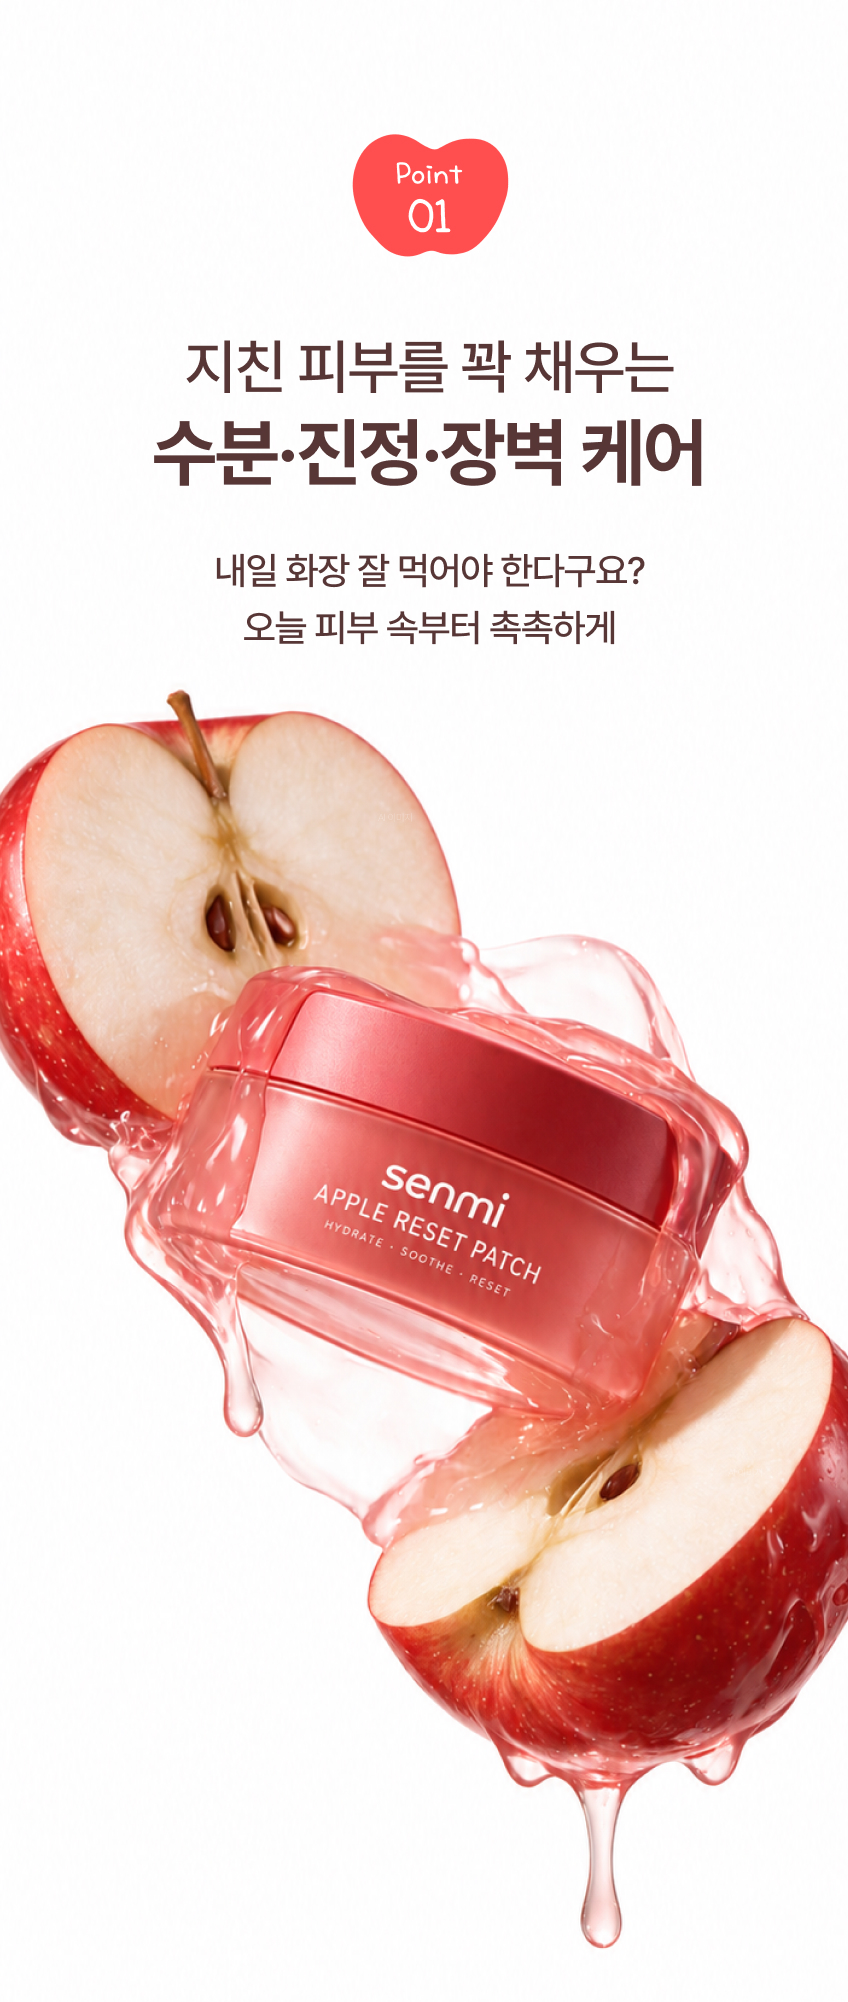
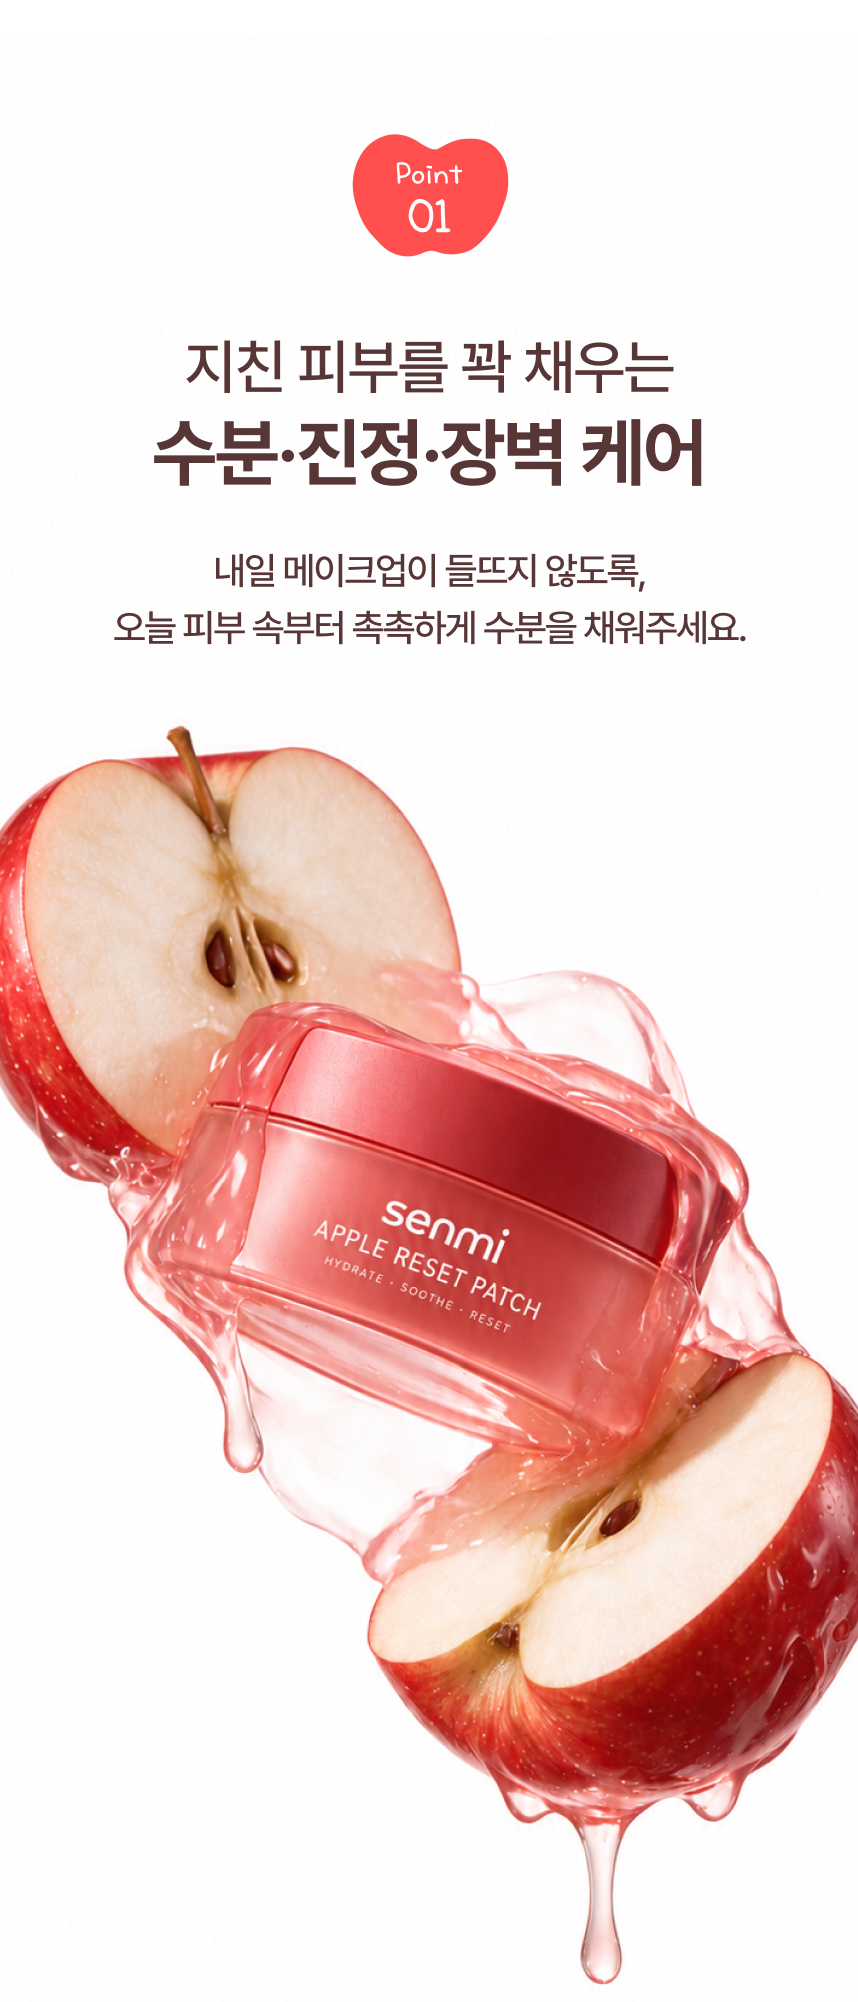
feat: refresh product media and mobile layout

diff --git a/index.html b/index.html
@@ -60,7 +60,7 @@ body{font-family:"Pretendard Variable",Pretendard,system-ui,sans-serif;color:var
 /* 포토 리뷰 + 요약 */
 .w{max-width:1280px;margin:0 auto}
 .rstrip{display:grid;grid-template-columns:repeat(4,1fr);gap:10px;margin-top:20px;padding:0 0}
-.review-card{display:block;width:100%;padding:0;border:0;background:none;text-align:left;color:inherit;font:inherit;cursor:pointer}.rstrip .pic{aspect-ratio:1;border-radius:4px;overflow:hidden}.review-card:hover .pic,.review-card:focus-visible .pic{outline:3px solid var(--pt);outline-offset:2px}.rstrip p{font-size:13px;margin:6px 0 0}.review-meta{display:flex;align-items:center;gap:8px;margin-top:6px}.review-stars{color:#F2A9A1}.review-author{color:var(--sub);font-size:11px}
+.review-card{display:block;width:100%;min-width:0;padding:0;border:0;background:none;text-align:left;color:inherit;font:inherit;cursor:pointer}.rstrip .pic{aspect-ratio:1;border-radius:4px;overflow:hidden}.review-card:hover .pic,.review-card:focus-visible .pic{outline:3px solid var(--pt);outline-offset:2px}.rstrip p{font-size:13px;margin:6px 0 0}.review-meta{display:flex;align-items:center;gap:8px;margin-top:6px}.review-stars{color:#F2A9A1}.review-author{color:var(--sub);font-size:11px}
 .sum{display:grid;grid-template-columns:240px 1fr;border-top:2px solid var(--ink);margin-top:50px;padding:30px 0;border-bottom:1px solid var(--line)}
 .sum .sc{text-align:center;border-right:1px solid var(--line)}.sum .sc b{font-size:28px}.sum .sc b:before{content:"★";color:#F2A9A1}
 .sum .bars{padding-left:30px}.sum .bars div{display:grid;grid-template-columns:70px 1fr 50px;gap:14px;align-items:center;font-size:13px;margin:4px 0}
@@ -91,18 +91,19 @@ body{font-family:"Pretendard Variable",Pretendard,system-ui,sans-serif;color:var
 .field input,.field select{width:100%;height:46px;border:1px solid #ccc;padding:0 14px;font:inherit}
 .apply .safe-note{margin:14px 0}
 .submit{width:100%;height:48px;border:0;border-radius:999px;background:#000;color:#fff;font-weight:600}
-.notice{max-width:1240px;margin:70px auto 0;width:100%;border-collapse:collapse;font-size:14px}
-.notice th,.notice td{border-top:1px solid var(--line);border-bottom:1px solid var(--line);padding:14px;text-align:left}.notice th{width:260px;font-weight:500;background:#FAFAFA}
+.notice{max-width:1000px;margin:70px auto 0;width:calc(100% - 40px);border-collapse:collapse;table-layout:fixed;font-size:14px}
+.notice th,.notice td{border-top:1px solid var(--line);border-bottom:1px solid var(--line);padding:14px;text-align:left;overflow-wrap:anywhere}.notice th{width:180px;font-weight:500;background:#FAFAFA}
+.back-to-top{position:fixed;right:24px;bottom:calc(24px + env(safe-area-inset-bottom));z-index:90;width:48px;height:48px;border:0;border-radius:50%;display:grid;place-items:center;background:var(--pt);color:#fff;font-size:22px;box-shadow:0 8px 24px rgba(31,34,48,.2);cursor:pointer;opacity:0;visibility:hidden;transform:translateY(10px);transition:opacity .2s,transform .2s,visibility .2s}.back-to-top.is-visible{opacity:1;visibility:visible;transform:none}.back-to-top:hover,.back-to-top:focus-visible{background:#c95b54;outline:3px solid var(--soft);outline-offset:2px}body.modal-lock .back-to-top{opacity:0;visibility:hidden}
 .ft{background:var(--soft);margin-top:80px;padding:50px 30px;font-size:12px;display:grid;grid-template-columns:2fr 1fr 1fr;gap:30px}
 .ft b{display:block;margin-bottom:10px}.ft a{display:block}
 .review-modal .modal-box{max-width:720px}.review-modal-image{width:100%;max-height:52vh;object-fit:cover;border-radius:12px;margin:12px 0}.review-modal-author{color:var(--sub);font-size:12px;font-weight:700;margin:0 0 6px}.review-modal-copy{color:var(--sub);margin-bottom:18px}.review-modal-nav{display:flex;gap:10px}.review-modal-nav button{flex:1;height:44px;border:1px solid var(--line);border-radius:999px;background:#fff;font:inherit;font-weight:600;cursor:pointer}.review-modal-close{position:absolute;right:18px;top:16px;width:38px;height:38px;border:0;border-radius:50%;background:#ececf0;font-size:22px;cursor:pointer}.review-modal .modal-box{position:relative}
 @media (max-width:1100px){.pdp{grid-template-columns:1fr 360px}.thumbs{display:none}.main{height:auto;aspect-ratio:1}.w{padding:0 20px}}
 @media (max-width:860px){
   .hd{padding:0 16px;font-size:13px}.hd nav{display:none}.hd{grid-template-columns:1fr auto 1fr}.hd .logo{font-size:30px}
-  .pdp{grid-template-columns:1fr;padding:0}.info{padding:20px 16px}.rstrip{grid-template-columns:repeat(2,1fr)}.sum{grid-template-columns:1fr}.sum .sc{border:0}.sum .bars{padding:20px 0 0}
+  .pdp{grid-template-columns:1fr;padding:0}.info{padding:20px 16px}.w{padding:0 16px;box-sizing:border-box}.rstrip{grid-template-columns:repeat(2,minmax(0,1fr));gap:10px}.sum{grid-template-columns:1fr}.sum .sc{border:0}.sum .bars{padding:20px 0 0}
   .price-row{gap:12px}.price-row.final strong{font-size:20px}.quantity-picker{padding:16px}.shipping-progress{padding:14px 12px}
   .blk{padding:50px 20px}.blk h3{font-size:22px}.blk .pic{height:280px}.ic4{grid-template-columns:repeat(2,1fr);row-gap:16px}
-  .how .row,.apply{grid-template-columns:1fr;padding:0 20px;gap:24px}.soc .row{padding:0 16px}.soc .row div{flex-basis:min(76vw,320px)}.rec{grid-template-columns:1fr}.rec .t{padding:40px 20px}.rec .pic{height:300px}.ft{grid-template-columns:1fr}
+  .how .row,.apply{grid-template-columns:1fr;padding:0 20px;gap:24px}.soc .row{padding:0 16px}.soc .row div{flex-basis:min(76vw,320px)}.rec{grid-template-columns:1fr}.rec .t{padding:40px 20px}.rec .pic{height:300px}.notice{width:calc(100% - 32px);margin-top:50px;font-size:12px}.notice th,.notice td{padding:10px 8px;vertical-align:top}.notice th{width:84px}.back-to-top{right:16px;bottom:calc(16px + env(safe-area-inset-bottom));width:44px;height:44px}.ft{grid-template-columns:1fr}
 }
 
 /* 실제 이미지 및 상품 갤러리 */
@@ -187,9 +188,9 @@ alt=""></noscript>
   <img src="assets/images/detail-01.jpg" alt="화잘먹 수분 패치 소개와 애플 리셋 패치를 볼에 붙인 모델" width="860" height="1641">
   <img src="assets/images/detail-02.jpg" alt="애플 리셋 패치 사용 후기와 사과 위 제품 용기" width="860" height="2287" loading="lazy">
   <img src="assets/images/detail-03.jpg" alt="속건조와 피부 고민을 확인하는 피부 컨디션 체크리스트" width="860" height="1286" loading="lazy">
-  <img src="assets/images/detail-04.jpg" alt="수분 진정 장벽 케어 포인트와 애플 리셋 패치 제품 연출" width="848" height="2002" loading="lazy">
+  <img src="assets/images/detail-04.jpg" alt="수분 진정 장벽 케어 포인트와 애플 리셋 패치 제품 연출" width="858" height="2002" loading="lazy">
   <img src="assets/images/detail-05.jpg" alt="세라마이드 판테놀 사과 추출물 히알루론산을 담은 집중 수분 케어" width="860" height="2141" loading="lazy">
-  <img src="assets/images/detail-06.png" alt="히알루론산 판테놀 세라마이드 사과 추출물의 4중 수분 레이어링" width="860" height="1939" loading="lazy">
+  <img src="assets/images/detail-06.jpg" alt="히알루론산 판테놀 세라마이드 사과 추출물의 4중 수분 레이어링" width="860" height="1939" loading="lazy">
   <img src="assets/images/detail-07.jpg" alt="애플 리셋 패치 사용 전후 건조함과 속당김 개선 비교" width="860" height="1107" loading="lazy">
   <img src="assets/images/detail-08.jpg" alt="볼에 초밀착 하이드로겔 패치를 붙이고 사과를 든 모델" width="860" height="1786" loading="lazy">
   <img src="assets/images/detail-09.jpg" alt="시간이 지날수록 투명해지는 보습 하이드로겔의 밀착력" width="860" height="2223" loading="lazy">
@@ -203,9 +204,11 @@ alt=""></noscript>
 <section class="soc"><h2>As Seen on Social</h2><div class="social-viewport" tabindex="0" aria-label="소셜 피드 이미지 슬라이더"><div class="row">
   <div><img src="assets/images/social-01.jpg" alt="애플 패치를 붙이고 음악을 듣는 모습"></div>
   <div><img src="assets/images/social-02.jpg" alt="애플 패치를 붙이고 외출을 준비하는 모습"></div>
+  <div><img src="assets/images/social-06.png" alt="사과와 물잔 옆에 놓인 애플 리셋 패치 제품"></div>
   <div><img src="assets/images/social-03.jpg" alt="애플 패치를 붙이고 햇빛 아래에서 셀카를 찍는 모습"></div>
   <div><img src="assets/images/social-04.jpg" alt="애플 패치를 붙인 욕실 거울 셀카"></div>
-  <div><img src="assets/images/social-05.jpg" alt="애플 패치를 붙이고 휴식하는 모습"></div>
+  <div><img src="assets/images/social-05.png" alt="잠옷을 입고 양 볼에 애플 패치를 붙인 모습"></div>
+  <div><img src="assets/images/social-07.png" alt="사과와 물잔 옆 유리 접시에 놓인 애플 패치"></div>
 </div></div></section>
 
 <section class="rec"><div class="t"><h2>이런 분께 추천드려요</h2><small>recommended for</small><ul><li>머리카락이 붙고 에센스가 뚝뚝 흐를 때</li><li>눈가 패치로는 볼까지 챙기기 어려울 때</li><li>붙이고 가만히 누워 있을 시간이 없을 때</li><li>팩 꺼낼 기운이 없는 날</li></ul></div><div class="pic"><img src="assets/images/recommend-01.jpg" alt="볼에 애플 패치를 붙인 모델"></div></section>
@@ -225,10 +228,11 @@ alt=""></noscript>
     <button class="submit" type="submit" id="cta-submit">애플 패치 소식 받기</button>
   </form>
 </section>
-<table class="notice"><tr><th>제품명</th><td>senmi Apple Reset Patch</td></tr><tr><th>용량 및 중량</th><td>60매</td></tr><tr><th>전성분</th><td>정제수, 글리세린, 부틸렌글라이콜, 소듐하이알루로네이트, 판테놀, 사과추출물, 세라마이드엔피 <small>(제품 기획 기준 주요 성분)</small></td></tr><tr><th>사용 시 주의사항</th><td>사용 중 또는 사용 후 붉은 반점, 부어오름, 가려움증 등 이상 증상이 나타나면 사용을 중단하고 전문의와 상담하세요. 상처가 있는 부위에는 사용하지 마세요. 어린이의 손이 닿지 않는 곳과 직사광선을 피해 보관하고, 눈에 들어갔을 때는 즉시 물로 씻어 주세요. 한 번 사용한 패치는 재사용하지 마세요.</td></tr></table>
+<table class="notice"><tr><th>제품명</th><td>senmi Apple Reset Patch</td></tr><tr><th>용량</th><td>60매</td></tr><tr><th>전성분</th><td>정제수, 글리세린, 부틸렌글라이콜, 소듐하이알루로네이트, 판테놀, 사과추출물, 세라마이드엔피 <small>(제품 기획 기준 주요 성분)</small></td></tr><tr><th>사용 시 주의사항</th><td>사용 중 또는 사용 후 붉은 반점, 부어오름, 가려움증 등 이상 증상이 나타나면 사용을 중단하고 전문의와 상담하세요. 상처가 있는 부위에는 사용하지 마세요. 어린이의 손이 닿지 않는 곳과 직사광선을 피해 보관하고, 눈에 들어갔을 때는 즉시 물로 씻어 주세요. 한 번 사용한 패치는 재사용하지 마세요.</td></tr></table>
 </main>
 
 <footer class="ft"><div><b>Information</b>이 페이지는 수업 실습용 페이지입니다. 실제 판매·결제는 이루어지지 않으며, 표기된 수치·후기는 예시입니다.</div><div><b>OFFICIAL</b><a href="#" data-privacy-open data-privacy-location="footer_official">개인정보 처리 안내</a></div><div><b>SHOP</b><a href="#product-option" data-track-content="footer_buy" data-track-type="cta" data-track-placement="footer">애플 리셋 패치 구매하기</a></div></footer>
+<button class="back-to-top" id="back-to-top" type="button" aria-label="맨 위로 이동">↑</button>
 <div class="modal" id="privacy-modal" role="dialog" aria-modal="true" aria-labelledby="privacy-title" aria-hidden="true">
   <div class="modal-box">
     <span class="badge">개인정보 미수집 · 즉시 파기</span>
@@ -261,25 +265,48 @@ alt=""></noscript>
   var mainImage = document.querySelector('.gallery-main-image');
   var thumbs = Array.prototype.slice.call(document.querySelectorAll('.gallery-thumb'));
   if (!mainImage || !thumbs.length) return;
-  function selectThumb(button) {
+  var gallery = document.querySelector('.pdp');
+  var reducedMotion = window.matchMedia('(prefers-reduced-motion: reduce)').matches;
+  var galleryPaused = false;
+  var galleryTimer;
+  function selectThumb(button, shouldTrack) {
     thumbs.forEach(function (item) { item.setAttribute('aria-selected', item === button ? 'true' : 'false'); });
     mainImage.src = button.getAttribute('data-gallery-src');
     var image = button.querySelector('img');
     if (image) mainImage.alt = image.alt;
-    if (typeof window.senmiTrack === 'function') {
+    if (shouldTrack && typeof window.senmiTrack === 'function') {
       var position = thumbs.indexOf(button) + 1;
       window.senmiTrack('select_content', { content_type: 'product_image', content_id: 'product_image_0' + position, content_position: position });
     }
   }
+  function scheduleGallery() {
+    clearTimeout(galleryTimer);
+    if (reducedMotion || galleryPaused || document.hidden) return;
+    galleryTimer = setTimeout(function () {
+      var current = thumbs.findIndex(function (item) { return item.getAttribute('aria-selected') === 'true'; });
+      selectThumb(thumbs[(current + 1) % thumbs.length], false);
+      scheduleGallery();
+    }, 4000);
+  }
   thumbs.forEach(function (button) {
-    button.addEventListener('click', function () { selectThumb(button); });
+    button.addEventListener('click', function () { selectThumb(button, true); scheduleGallery(); });
     button.addEventListener('keydown', function (event) {
       if (event.key === 'Enter' || event.key === ' ') {
         event.preventDefault();
-        selectThumb(button);
+        selectThumb(button, true);
+        scheduleGallery();
       }
     });
   });
+  ['mouseenter', 'focusin', 'touchstart'].forEach(function (name) {
+    gallery.addEventListener(name, function () { galleryPaused = true; clearTimeout(galleryTimer); }, { passive: true });
+  });
+  ['mouseleave', 'focusout', 'touchend', 'touchcancel'].forEach(function (name) {
+    gallery.addEventListener(name, function () { galleryPaused = false; scheduleGallery(); }, { passive: true });
+  });
+  document.addEventListener('visibilitychange', scheduleGallery);
+  window.addEventListener('pagehide', function () { clearTimeout(galleryTimer); }, { once: true });
+  scheduleGallery();
 })();
 </script>
 <script src="assets/analytics.js?v=20261028-3"></script>
@@ -297,11 +324,16 @@ alt=""></noscript>
   });
   var paused = false;
   var frame;
-  function animate() {
-    if (!paused) {
-      viewport.scrollLeft += 1;
-      if (viewport.scrollLeft >= row.scrollWidth / 2) viewport.scrollLeft -= row.scrollWidth / 2;
+  var lastTime = 0;
+  var firstClone = row.children[row.children.length / 2];
+  var loopWidth = firstClone.offsetLeft - row.children[0].offsetLeft;
+  function animate(time) {
+    if (!paused && !document.hidden) {
+      var elapsed = lastTime ? Math.min(time - lastTime, 50) : 0;
+      viewport.scrollLeft += elapsed * .045;
+      if (viewport.scrollLeft >= loopWidth) viewport.scrollLeft -= loopWidth;
     }
+    lastTime = time;
     frame = requestAnimationFrame(animate);
   }
   ['mouseenter', 'focusin', 'touchstart', 'pointerdown'].forEach(function (name) {
@@ -310,8 +342,24 @@ alt=""></noscript>
   ['mouseleave', 'focusout', 'touchend', 'pointerup'].forEach(function (name) {
     viewport.addEventListener(name, function () { paused = false; }, { passive: true });
   });
+  window.addEventListener('resize', function () {
+    loopWidth = firstClone.offsetLeft - row.children[0].offsetLeft;
+  });
   frame = requestAnimationFrame(animate);
   window.addEventListener('pagehide', function () { cancelAnimationFrame(frame); }, { once: true });
+})();
+</script>
+<script>
+(function () {
+  var button = document.getElementById('back-to-top');
+  if (!button) return;
+  var reducedMotion = window.matchMedia('(prefers-reduced-motion: reduce)').matches;
+  function updateButton() { button.classList.toggle('is-visible', window.scrollY > 600); }
+  window.addEventListener('scroll', updateButton, { passive: true });
+  button.addEventListener('click', function () {
+    window.scrollTo({ top: 0, behavior: reducedMotion ? 'auto' : 'smooth' });
+  });
+  updateButton();
 })();
 </script>
 </body>

diff --git a/cart.html b/cart.html
@@ -42,7 +42,7 @@ body{font-family:"Pretendard Variable",Pretendard,system-ui,sans-serif;color:var
 .hd{height:79px;display:grid;grid-template-columns:1fr auto 1fr;align-items:center;padding:0 30px}.hd .logo img{display:block;width:180px;height:auto;max-height:48px;object-fit:contain}.hd .right{text-align:right}
 .cart{max-width:1080px;margin:50px auto 90px;padding:0 24px}.cart h1{font-size:32px;margin-bottom:8px}.cart-intro{color:var(--sub);margin-bottom:34px}
 .cart-grid{display:grid;grid-template-columns:1fr 340px;gap:38px}.cart-list{border-top:2px solid var(--ink)}
-.cart-item{display:grid;grid-template-columns:120px 1fr auto;gap:20px;align-items:center;padding:22px 0;border-bottom:1px solid var(--line)}.cart-item img{width:120px;height:120px;object-fit:cover;border-radius:8px}.cart-item h2{font-size:17px;margin:0 0 4px}.variant{color:var(--sub);margin-bottom:14px}.quantity{display:inline-flex;border:1px solid var(--line);border-radius:999px;overflow:hidden}.quantity button{width:38px;height:36px;border:0;background:#fff;font-size:18px;cursor:pointer}.quantity span{min-width:36px;display:grid;place-items:center}.item-side{text-align:right}.item-price{font-size:17px;font-weight:700;white-space:nowrap}.remove{margin-top:12px;border:0;background:none;text-decoration:underline;color:var(--sub);cursor:pointer}
+.cart-item{display:grid;grid-template-columns:120px 1fr auto;gap:20px;align-items:center;padding:22px 0;border-bottom:1px solid var(--line)}.cart-item img{width:120px;height:120px;object-fit:cover;border-radius:8px}.cart-item h2{font-size:17px;margin:0 0 4px}.variant{color:var(--sub);margin-bottom:14px}.quantity{display:inline-flex;border:1px solid var(--line);border-radius:999px;overflow:hidden}.quantity button{width:38px;height:36px;border:0;background:#fff;color:var(--ink);-webkit-text-fill-color:var(--ink);-webkit-appearance:none;appearance:none;font-size:18px;cursor:pointer}.quantity span{min-width:36px;display:grid;place-items:center}.item-side{text-align:right}.item-price{font-size:17px;font-weight:700;white-space:nowrap}.remove{margin-top:12px;border:0;background:none;text-decoration:underline;color:var(--sub);cursor:pointer}
 .summary{background:var(--soft2);padding:26px;border-radius:16px;height:max-content}.summary h2{font-size:20px;margin-bottom:20px}.summary-row{display:flex;justify-content:space-between;gap:16px;padding:7px 0}.summary-row strong{text-align:right;white-space:nowrap}.summary-row.muted{color:var(--sub)}.summary-row.discount{color:var(--pt)}.summary-total{display:flex;justify-content:space-between;gap:16px;border-top:1px solid #decfc9;margin-top:12px;padding-top:18px;font-size:19px;font-weight:700}.summary-total strong{text-align:right;white-space:nowrap}.cart-shipping-progress{margin-top:18px}.cart-shipping-message{text-align:center;font-size:12px;font-weight:700}.cart-shipping-message strong{color:var(--pt)}.cart-shipping-track{height:8px;border-radius:999px;background:#e7e7ea;overflow:hidden}.cart-shipping-bar{display:block;width:0;height:100%;border-radius:inherit;background:var(--pt);transition:width .2s ease}.cart-actions{display:grid;gap:10px;margin-top:24px}.cart-actions a,.cart-actions button{height:46px;border-radius:999px;display:grid;place-items:center;text-decoration:none;font:inherit;font-weight:600}.primary{border:0;background:#000;color:#fff}.secondary{border:1px solid var(--ink)}
 .purchase-modal .modal-box{position:relative}.purchase-modal-copy{color:var(--sub);margin:0 0 18px}.purchase-modal-form{display:grid;gap:12px}.purchase-field{display:block;margin:0!important;padding:0!important;background:none!important}.purchase-field span{display:block;margin-bottom:6px}.purchase-field input{width:100%;height:46px;border:1px solid #ccc;padding:0 12px;font:inherit}.purchase-error{min-height:18px;margin:4px 0 0;color:#b42318;font-size:12px}.purchase-privacy{font-size:12px;color:var(--sub);background:#f4f4f2;border-radius:8px;padding:10px 12px}.purchase-toast{position:fixed;left:50%;bottom:24px;z-index:120;transform:translateX(-50%);background:#16161a;color:#fff;border-radius:999px;padding:12px 20px;font-weight:700;box-shadow:0 10px 30px rgba(0,0,0,.25)}body.modal-lock{overflow:hidden}
 .empty{text-align:center;padding:80px 20px;border-top:2px solid var(--ink);border-bottom:1px solid var(--line)}.empty h2{font-size:22px;margin-bottom:8px}.empty p{color:var(--sub);margin-bottom:24px}.empty a{display:inline-grid;place-items:center;min-width:180px;height:46px;border-radius:999px;background:#000;color:#fff;text-decoration:none}
@@ -76,7 +76,6 @@ alt=""></noscript>
       <div class="summary-total"><span>최종 결제예정금액</span><strong id="cart-total">0원</strong></div>
       <div class="cart-shipping-progress"><p class="cart-shipping-message" id="cart-shipping-message" aria-live="polite"></p><div class="cart-shipping-track" role="progressbar" aria-valuemin="0" aria-valuemax="50000" aria-valuenow="0" id="cart-shipping-progress"><span class="cart-shipping-bar" id="cart-shipping-bar"></span></div></div>
       <div class="cart-actions"><button class="primary" type="button" id="cart-news-signup">구매하기</button><a class="secondary" href="./" id="continue-shopping">쇼핑 계속하기</a></div>
-      <p class="notice">실습용 장바구니입니다. 주문서와 결제 기능은 제공하지 않습니다.</p>
     </aside>
   </div>
   <section id="empty-cart" class="empty" hidden><h2>장바구니가 비어 있어요</h2><p>애플 리셋 패치 구성을 선택해 담아 보세요.</p><a href="./" id="empty-cart-shop">상품 보러 가기</a></section>
